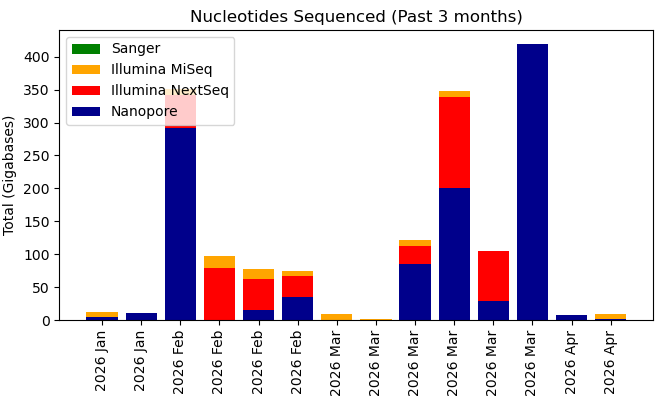
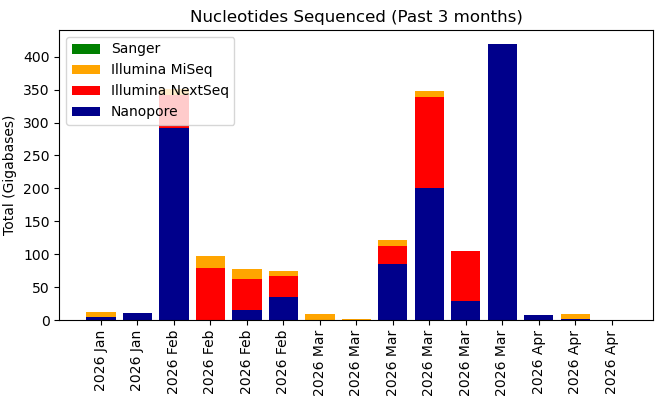
Your commit message here

Changed region(s): [[0.1212, 0.09, 0.9697, 0.99], [0.9091, 0.84, 0.9394, 0.99]]

diff --git a/krona/cgs.html b/krona/cgs.html
@@ -52,8 +52,8 @@ body {
   flex-direction: column;
 }
 </style>
-<H1>Genomics Facility Status: 07:00:21, 13/04/2026</H1>
-<marquee behavior="scroll" scrollamount="20" direction="left" bgcolor="lightgrey">GATGGTATTGGCTCTAATTTGTCTAGGAAATAACCGTCAGGATTGACACCCTCCCCATTGTATGTTTTCATGCCTCCAAATCTTGGAGGCTTTTTTATGGTTCGTTCTTATTACCCTTCTGAATGTCACGCTGATTATTTTGACTTTGAGCGTATCGAGGCTCTTAAACCTGCTATTGAGGCTTGTGGCATTTCTACTCTTTCTCAATCCCCAATGCTTGGCTTCCATAAGCAGATGGATAACCGCATCA</marquee>
+<H1>Genomics Facility Status: 07:00:17, 14/04/2026</H1>
+<marquee behavior="scroll" scrollamount="20" direction="left" bgcolor="lightgrey">TTTGGTCGTCGGGTACGCAATCGCCGCCAGTTAAATAGCTTGCAAAATACGTGGCCTTATGGTTACAGTATGCCCATCGCAGTTCGCTACACGCAGGACGCTTTTTCACGTTCTGGTTGGTTGTGGCCTGTTGATGCTAAAGGTGAGCCGCTTAAAGCTACCAGTTATATGGCTGTTGGTTTCTATGTGGCTAAATACGTTAACAAAAAGTCAGATATGGACCTTGCTGCTAAAGGTCTAGGAGCTAA</marquee>
 <TABLE BORDER=0><TR><TD><TABLE class="styled-table"><H3>GigaBases Sequenced</H3>
-<TR><TD><b>Platform</b></TD><TD><b>Week</b></TD><TD><b>Month</b></TD><TD><b>Year</b></TD><TD><b>Total</b></TD></TR><TR><TD>Illumina MiSeq</TD><TD>7.92</TD><TD>24.97</TD><TD>351.47</TD><TD>525.02</TD></TR><TR><TD>Illumina NextSeq</TD><TD>0.0</TD><TD>242.05</TD><TD>4466.95</TD><TD>6463.94</TD></TR><TR><TD>Nanopore PromethION</TD><TD>0.97</TD><TD>658.58</TD><TD>7608.55</TD><TD>11876.75</TD></TR><TR><TD>Sanger</TD><TD>0.0</TD><TD>0.0</TD><TD>0.02</TD><TD>0.04</TD></TR></TABLE></TD><TD><IMG SRC="fig1.png"><IMG SRC="fig2.png"></TD></TR><TR><TD><H3>No. Samples (No. Experiments)</H3>
-<TABLE class="styled-table"><TR><TD><b>Platform</b></TD><TD><b>Week</b></TD><TD><b>Month</b></TD><TD><b>Year</b></TD><TD><b>Total</b></TD></TR><TR><TD>Illumina MiSeq</TD><TD>35 (1)</TD><TD>103 (3)</TD><TD>1516 (70)</TD><TD>2374 (94)</TD></TR><TR><TD>Illumina NextSeq</TD><TD>0 (0)</TD><TD>116 (4)</TD><TD>1364 (65)</TD><TD>2085 (83)</TD></TR><TR><TD>Nanopore PromethION</TD><TD>13 (3)</TD><TD>67 (18)</TD><TD>559 (179)</TD><TD>946 (323)</TD></TR><TR><TD>Sanger</TD><TD>480 (480)</TD><TD>2206 (2206)</TD><TD>20059 (20059)</TD><TD>42786 (42786)</TD></TR></TABLE></TD><TD><IMG SRC="fig4.png"></TD></TR></TABLE></HTML>
+<TR><TD><b>Platform</b></TD><TD><b>Week</b></TD><TD><b>Month</b></TD><TD><b>Year</b></TD><TD><b>Total</b></TD></TR><TR><TD>Illumina MiSeq</TD><TD>7.92</TD><TD>24.97</TD><TD>343.16</TD><TD>525.02</TD></TR><TR><TD>Illumina NextSeq</TD><TD>0.0</TD><TD>214.84</TD><TD>4466.95</TD><TD>6463.94</TD></TR><TR><TD>Nanopore PromethION</TD><TD>0.97</TD><TD>658.58</TD><TD>7608.55</TD><TD>11876.75</TD></TR><TR><TD>Sanger</TD><TD>0.0</TD><TD>0.0</TD><TD>0.02</TD><TD>0.04</TD></TR></TABLE></TD><TD><IMG SRC="fig1.png"><IMG SRC="fig2.png"></TD></TR><TR><TD><H3>No. Samples (No. Experiments)</H3>
+<TABLE class="styled-table"><TR><TD><b>Platform</b></TD><TD><b>Week</b></TD><TD><b>Month</b></TD><TD><b>Year</b></TD><TD><b>Total</b></TD></TR><TR><TD>Illumina MiSeq</TD><TD>35 (1)</TD><TD>103 (3)</TD><TD>1436 (69)</TD><TD>2374 (94)</TD></TR><TR><TD>Illumina NextSeq</TD><TD>0 (0)</TD><TD>106 (3)</TD><TD>1364 (65)</TD><TD>2085 (83)</TD></TR><TR><TD>Nanopore PromethION</TD><TD>13 (3)</TD><TD>67 (18)</TD><TD>559 (179)</TD><TD>946 (323)</TD></TR><TR><TD>Sanger</TD><TD>480 (480)</TD><TD>2206 (2206)</TD><TD>20059 (20059)</TD><TD>42786 (42786)</TD></TR></TABLE></TD><TD><IMG SRC="fig4.png"></TD></TR></TABLE></HTML>
